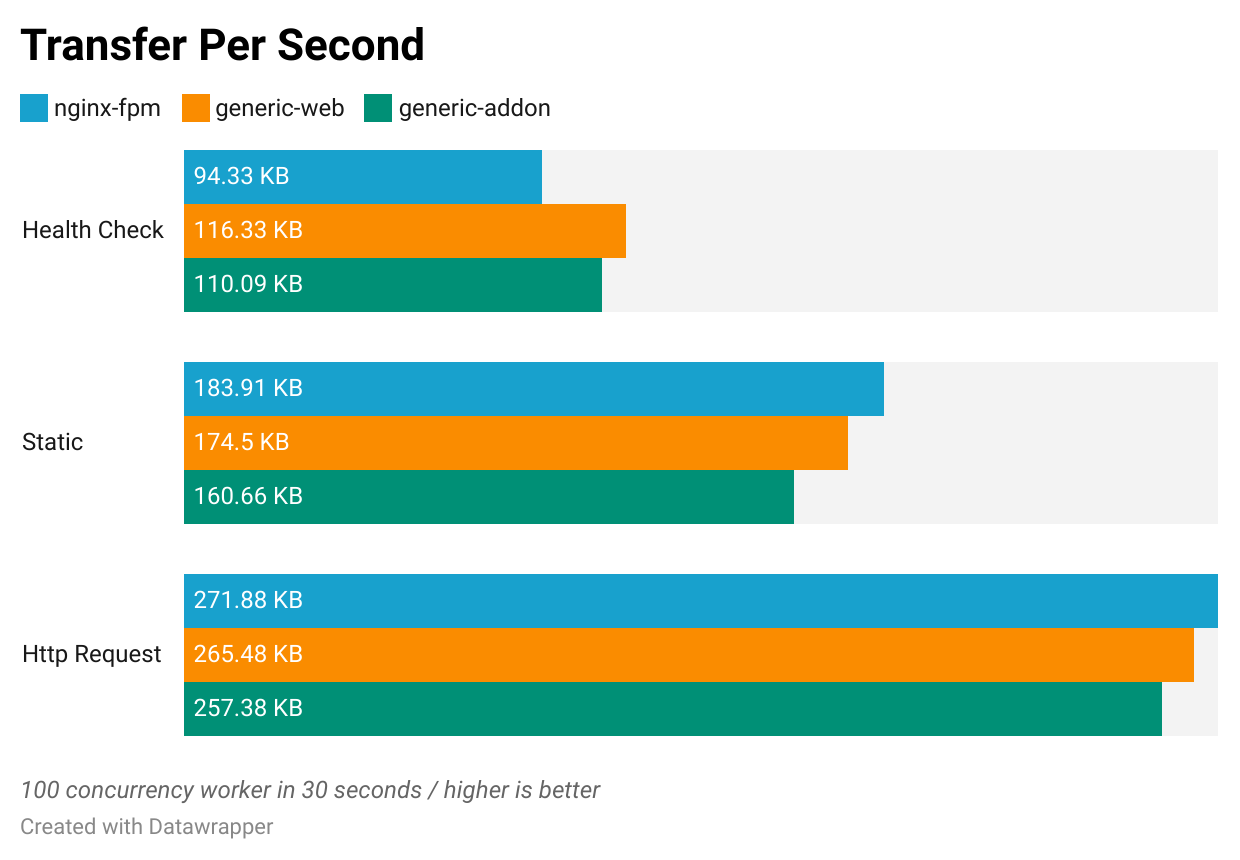
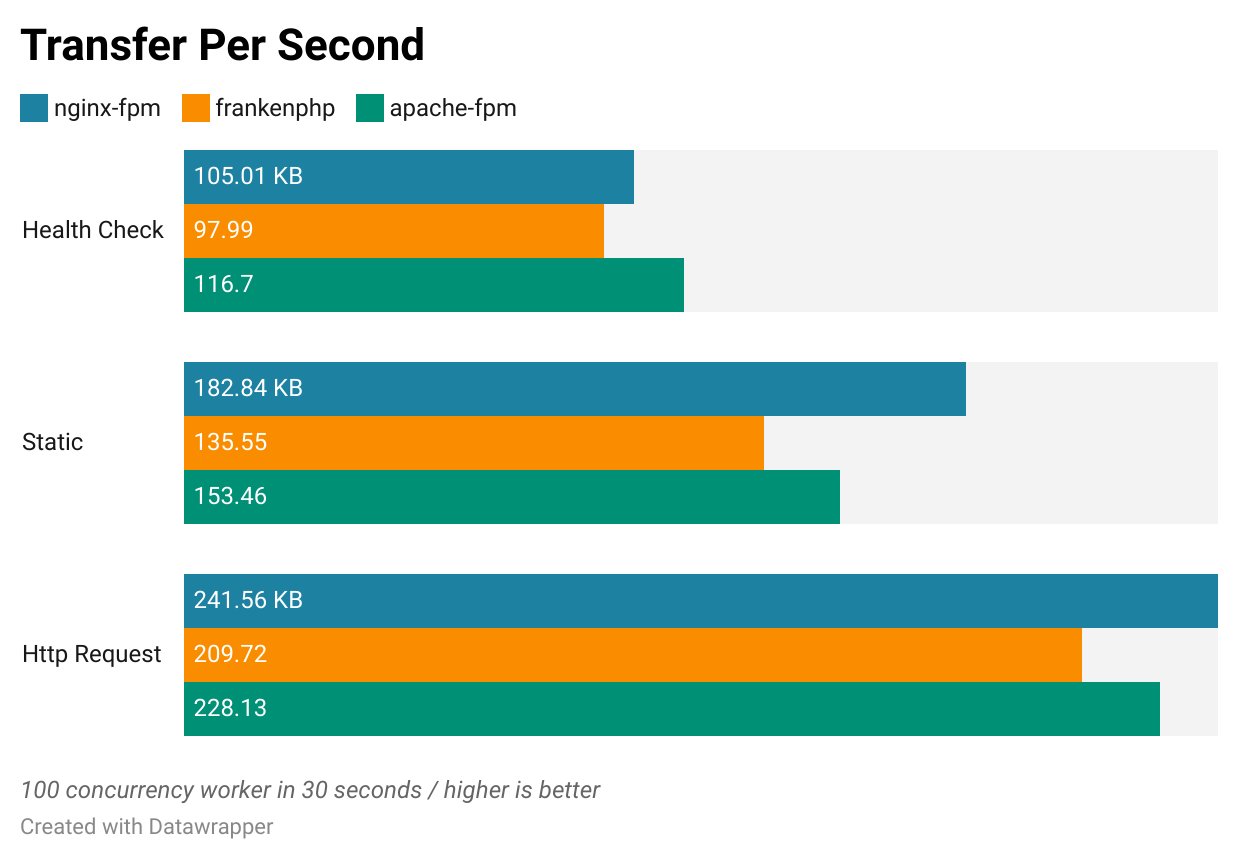
blog: update FrankenPHP benchmark and remove quickstart (#502)

diff --git a/src/content/blog/using-frankenphp-with-ddev.md b/src/content/blog/using-frankenphp-with-ddev.md
@@ -1,8 +1,8 @@
 ---
 title: "Using FrankenPHP with DDEV"
 pubDate: 2025-07-03
-modifiedDate: 2025-11-27
-modifiedComment: The FrankenPHP add-on is now official.
+modifiedDate: 2026-02-17
+modifiedComment: Update FrankenPHP add-on instructions, remove deprecated content, update benchmark results.
 summary: Learn how to use FrankenPHP with DDEV through the official add-on or Debian packages. Includes installation steps, features, and performance benchmarks.
 author: Stas Zhuk
 featureImage:
@@ -20,16 +20,13 @@ The PHP ecosystem is changing fast, with tools like [FrankenPHP](https://franken
 
 FrankenPHP is now [officially supported](https://thephp.foundation/blog/2025/05/15/frankenphp/) by The PHP Foundation.
 
-This guide explains two ways to integrate FrankenPHP with DDEV:
-
-1. **Official DDEV add-on** (recommended): Run FrankenPHP as a separate service with full PHP extension support and flexibility
-2. **Debian packages**: Install FrankenPHP directly in the web container (PHP 8.4 only, limited features)
+This guide explains how FrankenPHP can be used with DDEV using [ddev/ddev-frankenphp](https://github.com/ddev/ddev-frankenphp) add-on.
 
 ### Generic web server
 
-This blog shows examples of the recently added [DDEV's generic web server](https://docs.ddev.com/en/stable/users/extend/customization-extendibility/#using-nodejs-as-ddevs-primary-web-server), which supports flexible configurations. It allows you to use any custom web server you want, including Node.js, Python, Ruby, etc.
+This blog shows an example of the recently added [DDEV's generic web server](https://docs.ddev.com/en/stable/users/extend/customization-extendibility/#using-nodejs-as-ddevs-primary-web-server), which supports flexible configurations. It allows you to use any custom web server you want, including Node.js, Python, Ruby, etc.
 
-## DDEV FrankenPHP Add-on (Recommended)
+## DDEV FrankenPHP Add-on
 
 The [ddev/ddev-frankenphp](https://github.com/ddev/ddev-frankenphp) add-on is now officially maintained by the DDEV team! It has matured to production-ready status with full feature support.
 
@@ -40,11 +37,12 @@ ddev add-on get ddev/ddev-frankenphp
 ddev restart
 ```
 
-To add PHP extensions (see supported extensions [here](https://github.com/mlocati/docker-php-extension-installer?tab=readme-ov-file#supported-php-extensions)):
+Install pre-packaged extensions using the `php-zts-` prefix (see [supported extensions](https://pkg.henderkes.com/84/php-zts/packages?type=debian)):
 
 ```bash
-ddev dotenv set .ddev/.env.web --frankenphp-custom-extensions="redis memcached"
-ddev stop && ddev debug rebuild && ddev start
+# install mongodb and sqlsrv extensions
+ddev config --webimage-extra-packages="php-zts-mongodb,php-zts-sqlsrv"
+ddev restart
 ```
 
 ### ✨ Features:
@@ -53,74 +51,16 @@ ddev stop && ddev debug rebuild && ddev start
 - Install any PHP extension (Redis, Xdebug, Memcached, etc.)
 - Custom FrankenPHP options supported
 - Worker mode supported for maximum performance
-- Full debugging support: [`ddev xdebug`](https://docs.ddev.com/en/stable/users/usage/commands/#xdebug), [`ddev xhprof`](https://docs.ddev.com/en/stable/users/usage/commands/#xhprof), [`ddev xhgui`](https://docs.ddev.com/en/stable/users/usage/commands/#xhgui)
-
-Note: Initial `ddev start` takes longer due to manual extension compilation.
+- Full debugging support: [`ddev blackfire`](https://docs.ddev.com/en/stable/users/usage/commands/#blackfire), [`ddev xdebug`](https://docs.ddev.com/en/stable/users/usage/commands/#xdebug), [`ddev xhprof`](https://docs.ddev.com/en/stable/users/usage/commands/#xhprof), [`ddev xhgui`](https://docs.ddev.com/en/stable/users/usage/commands/#xhgui)
 
 If you want to suggest some feature or found a bug, feel free to [open an issue](https://github.com/ddev/ddev-frankenphp/issues).
-
-## Alternative: FrankenPHP via Debian Packages
-
-FrankenPHP can also be installed directly in the web container using Debian packages. This example from the [DDEV quickstart](https://docs.ddev.com/en/stable/users/quickstart/#generic-frankenphp) shows a setup for a Drupal 11 project where FrankenPHP runs as an extra daemon.
-
-### ⚙ Installation:
-
-```bash
-export FRANKENPHP_SITENAME=my-frankenphp-site
-mkdir ${FRANKENPHP_SITENAME} && cd ${FRANKENPHP_SITENAME}
-ddev config --project-type=drupal11 --webserver-type=generic --docroot=web --php-version=8.4
-ddev start
-
-cat <<'EOF' > .ddev/config.frankenphp.yaml
-web_extra_daemons:
-  - name: "frankenphp"
-    command: "frankenphp php-server --listen=0.0.0.0:80 --root=\"/var/www/html/${DDEV_DOCROOT:-}\" -v -a"
-    directory: /var/www/html
-web_extra_exposed_ports:
-  - name: "frankenphp"
-    container_port: 80
-    http_port: 80
-    https_port: 443
-EOF
-
-cat <<'DOCKERFILEEND' >.ddev/web-build/Dockerfile.frankenphp
-RUN curl -fsSL https://key.henderkes.com/static-php.gpg -o /usr/share/keyrings/static-php.gpg && \
-    echo "deb [signed-by=/usr/share/keyrings/static-php.gpg] https://deb.henderkes.com/ stable main" > /etc/apt/sources.list.d/static-php.list
-# Install FrankenPHP and extensions, see https://frankenphp.dev/docs/#deb-packages for details.
-# You can find the list of available extensions at https://deb.henderkes.com/pool/main/p/
-RUN (apt-get update || true) && DEBIAN_FRONTEND=noninteractive apt-get install -y -o Dpkg::Options::="--force-confnew" --no-install-recommends --no-install-suggests \
-    frankenphp \
-    php-zts-cli \
-    php-zts-gd \
-    php-zts-pdo-mysql
-# Make sure that 'php' command uses the ZTS version of PHP
-# and that the php.ini in use by FrankenPHP is the one from DDEV.
-RUN ln -sf /usr/bin/php-zts /usr/local/bin/php && \
-    ln -sf /etc/php/${DDEV_PHP_VERSION}/fpm/php.ini /etc/php-zts/php.ini
-DOCKERFILEEND
-
-ddev composer create-project drupal/recommended-project
-ddev composer require drush/drush
-ddev restart
-ddev drush site:install demo_umami --account-name=admin --account-pass=admin -y
-ddev launch
-# or automatically log in with
-ddev launch $(ddev drush uli)
-```
-
-### ⚠ Limitations:
-
-- PHP 8.4 only (no version flexibility)
-- Cannot customize FrankenPHP options
-- Worker mode not supported
-- No debugging support (`ddev xdebug`, `ddev xhprof`, `ddev xhgui` do not work)
 
 ## Resources
 
 - [FrankenPHP documentation](https://frankenphp.dev/docs/)
 - [DDEV's generic web server](https://docs.ddev.com/en/stable/users/extend/customization-extendibility/#using-nodejs-as-ddevs-primary-web-server)
 - [FrankenPHP add-on](https://github.com/ddev/ddev-frankenphp)
-- [FrankenPHP quickstart](https://docs.ddev.com/en/stable/users/quickstart/#generic-frankenphp)
+- [FrankenPHP Static PHP Package Repository](https://debs.henderkes.com/)
 - [Hola FrankenPHP! Laravel Octane Servers Comparison: Pushing the Boundaries of Performance](https://medium.com/beyn-technology/hola-frankenphp-laravel-octane-servers-comparison-pushing-the-boundaries-of-performance-d3e7ad8e652c)
 
 ## Benchmarking
@@ -128,8 +68,8 @@ ddev launch $(ddev drush uli)
 Using [ddev-frankenphp-benchmark](https://github.com/stasadev/ddev-frankenphp-benchmark), I compared three setups:
 
 - `nginx-fpm`: DDEV's `nginx-fpm` web server with `php-fpm`
-- `generic-web`: DDEV's `generic` web server with FrankenPHP inside the `web` container (static binary)
-- `generic-addon`: DDEV's `generic` web server with FrankenPHP inside the `frankenphp` container (with `pdo_mysql` extension)
+- `frankenphp`: DDEV's `generic` web server with `frankenphp`
+- `apache-fpm`: DDEV's `apache-fpm` web server with `php-fpm`
 
 Summary:
 
@@ -142,14 +82,14 @@ Summary:
 ### Benchmarking Results
 
 <b>Software:</b><br>
-DDEV: v1.24.6<br>
+DDEV: v1.24.10<br>
 Mutagen: disabled<br>
 PHP: v8.4<br>
-Laravel: v12.19.3<br>
-FrankenPHP: v1.7.0<br>
-Docker Engine: v28.3.0<br>
+Laravel: v12.44.0<br>
+FrankenPHP: v1.11.1<br>
+Docker Engine: v29.1.3<br>
 Operating System: Manjaro Linux AMD64<br>
-Kernel Version: 6.12.35-1-MANJARO
+Kernel Version: 6.12.63-1-MANJARO
 
 <b>Hardware:</b><br>
 Intel i7 8750H (6 Core/12 Thread, 2.2 Ghz, Turbo 4.1 Ghz)<br>

diff --git a/src/content/blog/release-v1.25.0.md b/src/content/blog/release-v1.25.0.md
@@ -36,7 +36,7 @@ These updates mostly affect new projects. Existing projects typically continue t
   - `ddev utility mutagen-diagnose` helps debug Mutagen issues. See [Mutagen in DDEV: Functionality, Issues, and Debugging](mutagen-functionality-issues-debugging.md)
 - **Faster snapshots**: `ddev snapshot` now uses zstd instead of gzip for significantly faster exports and restores, thanks [@deviantintegral](https://github.com/deviantintegral)
 - **Experimental Podman and Docker Rootless support**: See [Podman and Docker Rootless in DDEV](podman-and-docker-rootless.md)
-- **FrankenPHP as an official add-on**: [`ddev-frankenphp`](https://github.com/ddev/ddev-frankenphp) with many improvements. See updated [(draft) Using FrankenPHP with DDEV](https://pr-502.ddev-com-fork-previews.pages.dev/blog/using-frankenphp-with-ddev/)
+- **FrankenPHP as an official add-on**: [`ddev-frankenphp`](https://github.com/ddev/ddev-frankenphp) with many improvements. See updated [Using FrankenPHP with DDEV](using-frankenphp-with-ddev.md)
 - **Traefik configuration standardization**: Project configuration now uses a single file: `.ddev/traefik/config/<projectname>.yaml` (all other files are ignored)
 
 ## What You Need to Do After Upgrading
